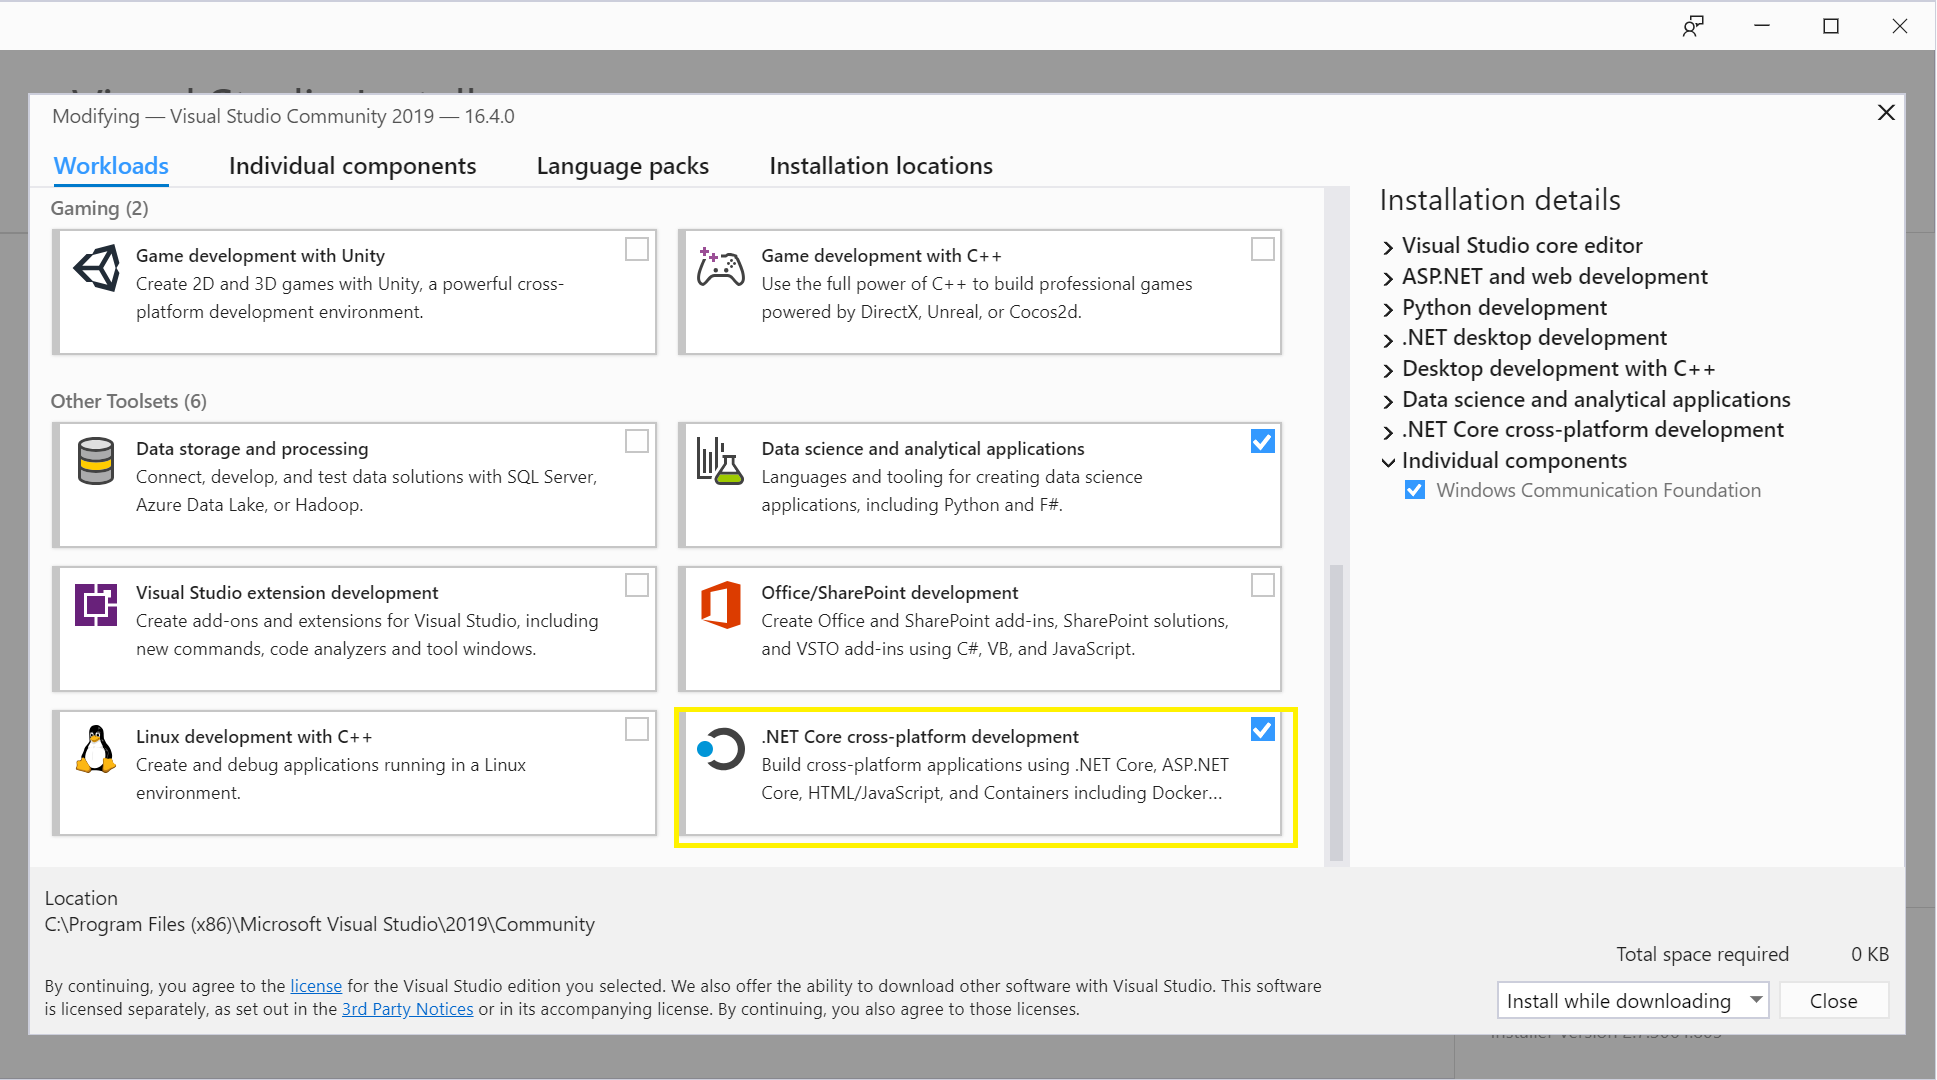
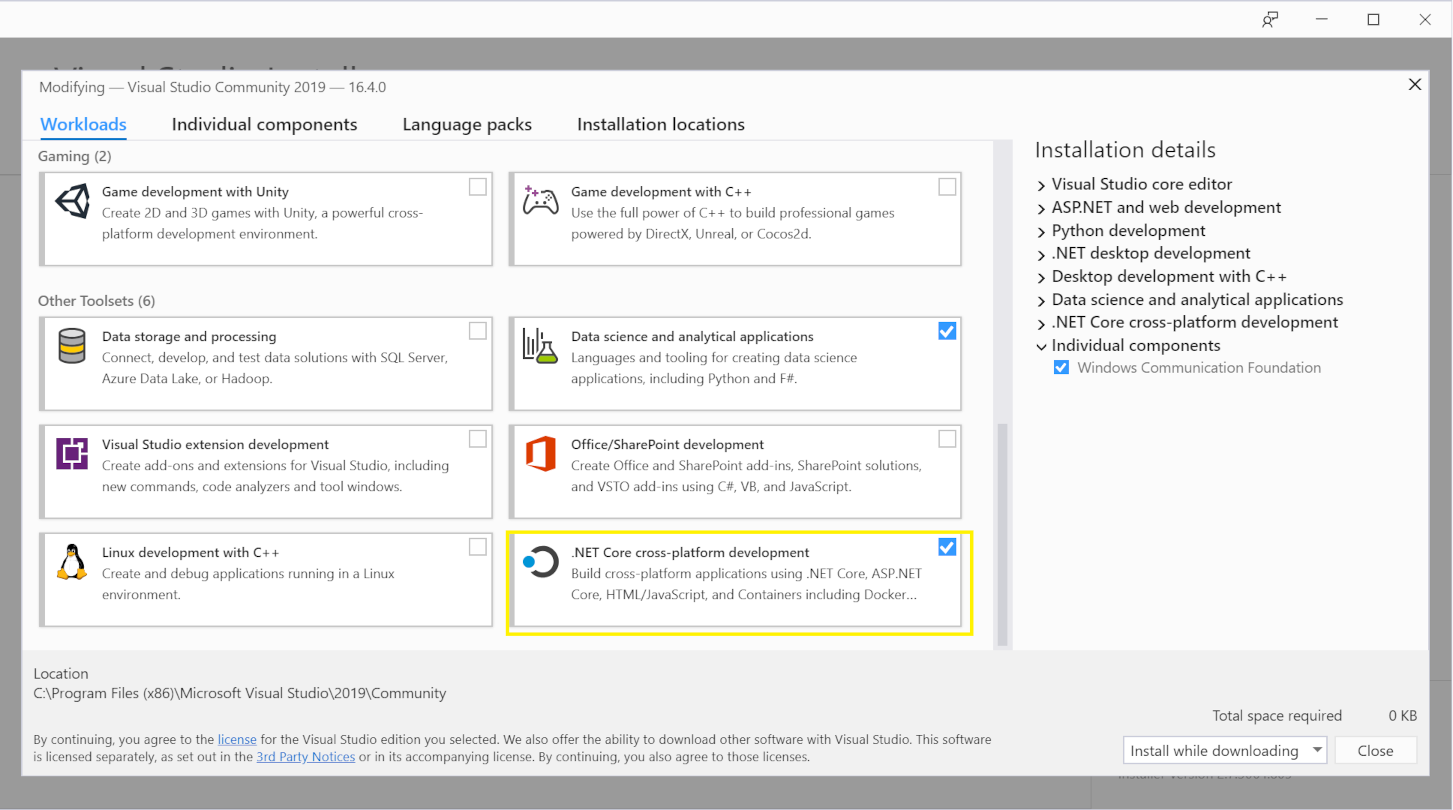
Update compile instructions
Added instructions for installing .net core SDK, and for the extra
deps which are required on linux/mac. No idea if the mac instructions
are good or not.

Changed region(s): [[0.1858, 0.9259, 0.2478, 0.9568], [0.031, 0.5556, 0.0619, 0.5864]]

diff --git a/Docs/content/Development/Contribute/Compile/linux.md b/Docs/content/Development/Contribute/Compile/linux.md
@@ -3,24 +3,38 @@ title: "Linux"
 draft: false
 ---
 
-APSIM can be compiled and run/debugged on Linux using mono/MonoDevelop. A single solution file exists in the root of the repository (ApsimX.sln). All executables will be built to the Bin folder.
+APSIM can be built against two target frameworks - .NET Framework 4.7.2 (which runs on Linux via mono) and .NET Core 3.0. When building the solution, binaries for both target frameworks will be compiled to the Bin/ and NetCoreBin/ directories, respectively.
 
 1. [Install mono](http://www.mono-project.com/download/stable/#download-lin)
 
-2. Install required packages.
+2. Install the .NET Core 3.0 SDK. The [dotnet-install script](https://docs.microsoft.com/en-us/dotnet/core/tools/dotnet-install-script) is a simple way to do this
 
-	(These commands and package names are for Ubuntu/Debian.)
+2. Install required packages. (These commands and package names are for Ubuntu/Debian.)
 
 	```sudo apt-get install <PackageName>```
-	
-	The following packages are required:	
-    - gtk-sharp2
+
+	The two target frameworks have slightly different sets of dependencies. When building the solution file, binaries are built for *both* target frameworks by default, so all dependencies will be required. The following packages are required for both .NET Framework and .NET Core builds:
+
 	- mono-devel
 	- sqlite3
-	- libwebkit1.1-cil
-	- nuget
-	- monodevelop
 	- git (required for obtaining the source code)
+
+	For .NET Framework builds:
+	- gtk-sharp2
+	- libwebkit1.1-cil
+	    
+		Note: this package is no longer available in Ubuntu's official repositories. It can be built from source, but can also be considered an optional dependency. The user interface will run without it, but some parts will be missing.
+
+	- webkit-sharp
+	
+		Note: this package is no longer available in Ubuntu's official repositories. If unavailable, run this command from the ApsimX directory:
+		
+		```cp ApsimNG/Assemblies/webkit-sharp.dll Bin/```
+
+	For .NET Core builds:
+
+    - gtk-sharp3
+	- libgtksourceview-4-0
 
 	To check if a package is already installed, use ```dpkg -s <PackageName>```
 
@@ -28,20 +42,18 @@ APSIM can be compiled and run/debugged on Linux using mono/MonoDevelop. A single
 
 	```git clone https://github.com/APSIMInitiative/ApsimX```
 
-3. Ensure nuget is up-to-date
+4. Copy ApsimX/ApsimNG/Assemblies/Mono.TextEditor.dll.config to ApsimX/Bin/
 
-	````sudo nuget update -self````
+5. Build the solution
 
-4. Restore nuget packages
+	```dotnet build ApsimX.sln```
 
-    ````nuget restore````
+	The `-f` switch may be used to build for a specific target framework. E.g.
 
-5. Copy ApsimX/ApsimNG/Assemblies/Mono.TextEditor.dll.config to ApsimX/Bin/
+	```dotnet build -f netcoreapp3.0 ApsimX.sln```
 
-6. Copy ApsimX/ApsimNG/Assemblies/webkit-sharp.dll to ApsimX/Bin/
+	or
 
-	This is not necessary if your distribution includes a package for webkit-sharp.
+	```dotnet build -f net472 ApsimX.sln```
 
-7. Set ApsimNG as startup project
 
-    In MonoDevelop, right click on ApsimNG, and select "Set as Startup Project".

diff --git a/Docs/content/Development/Contribute/Compile/windows.md b/Docs/content/Development/Contribute/Compile/windows.md
@@ -3,13 +3,13 @@ title: "Windows"
 draft: false
 ---
 
-APSIM can be compiled using Microsoft Visual Studio 2019 or later. A single solution file exists in the root of the repository (ApsimX.sln). All executables will be built to the Bin folder.
+APSIM can be compiled using Microsoft Visual Studio 2019 or later. A single solution file exists in the root of the repository (ApsimX.sln). All executables will be built to the Bin folder. APSIM can be built against two target frameworks - .NET Framework 4.7.2 (which runs on Linux via mono) and .NET Core 3.0. When building the solution, binaries for both target frameworks will be compiled to the Bin/ and NetCoreBin/ directories, respectively.
+
+Building APSIM requires that the .NET Core SDK is installed. This can be installed at the same time as Visual Studio. If Visual Studio is already installed, the installation can be modified by downloading and running the [visual studio installer](https://visualstudio.microsoft.com/vs/), and modifying the existing installation by adding the ".NET Core cross-platform development" workload.
+
+![Install the .NET Core SDK](/images/Development.Contribute.Compile.Windows.InstallNetCore.png)
 
 1. Open ApsimX.sln in visual studio
-2. Restore nuget packages (only necessary for first build)
-
-    Right-click on the solution in the solution explorer and click "Restore NuGet Packages"
-
-3. Build solution (default ctrl + shift + b)
+2. Build solution (default ctrl + shift + b)
 
     Right-click on the solution in the solution explorer and click "Build solution"

diff --git a/Docs/content/Development/Contribute/Compile/osx.md b/Docs/content/Development/Contribute/Compile/osx.md
@@ -9,21 +9,26 @@ APSIM can be compiled using Microsoft's [Visual Studio for Mac](https://visualst
 
 2. Install [git](https://git-scm.com/downloads) or a git GUI client such as [SourceTree](https://www.sourcetreeapp.com/) or [Fork](https://git-fork.com/)
 
-3. [Obtain the source code](../../cli/)
+3. Install the .NET Core 3.0 SDK. The [dotnet-install script](https://docs.microsoft.com/en-us/dotnet/core/tools/dotnet-install-script) is a simple way to do this
+
+4. Install GTK+3 and gtksourceview4
+
+    ```
+    brew install gtk+3
+    brew install gtksourceview4
+    ```
+
+5. [Obtain the source code](../../cli/)
 
     ```
     git clone https://github.com/APSIMInitiative/ApsimX
     ```
 
-4. Copy the webkit-sharp binary (and its config file) from ApsimX/ApsimNG/Assemblies/ to your ApsimX/Bin/ folder
+6. Copy the webkit-sharp binary (and its config file) from ApsimX/ApsimNG/Assemblies/ to your ApsimX/Bin/ folder
 
     ```
     cd /path/to/ApsimX
     cp ApsimNG/Assemblies/webkit-* Bin/
     ```
 
-5. Set ApsimNG as startup project
-
-    ![Set ApsimNG as startup project](/images/macos-apsimng-startup.png)
-
-6. Build and Run
+7. Build and Run
